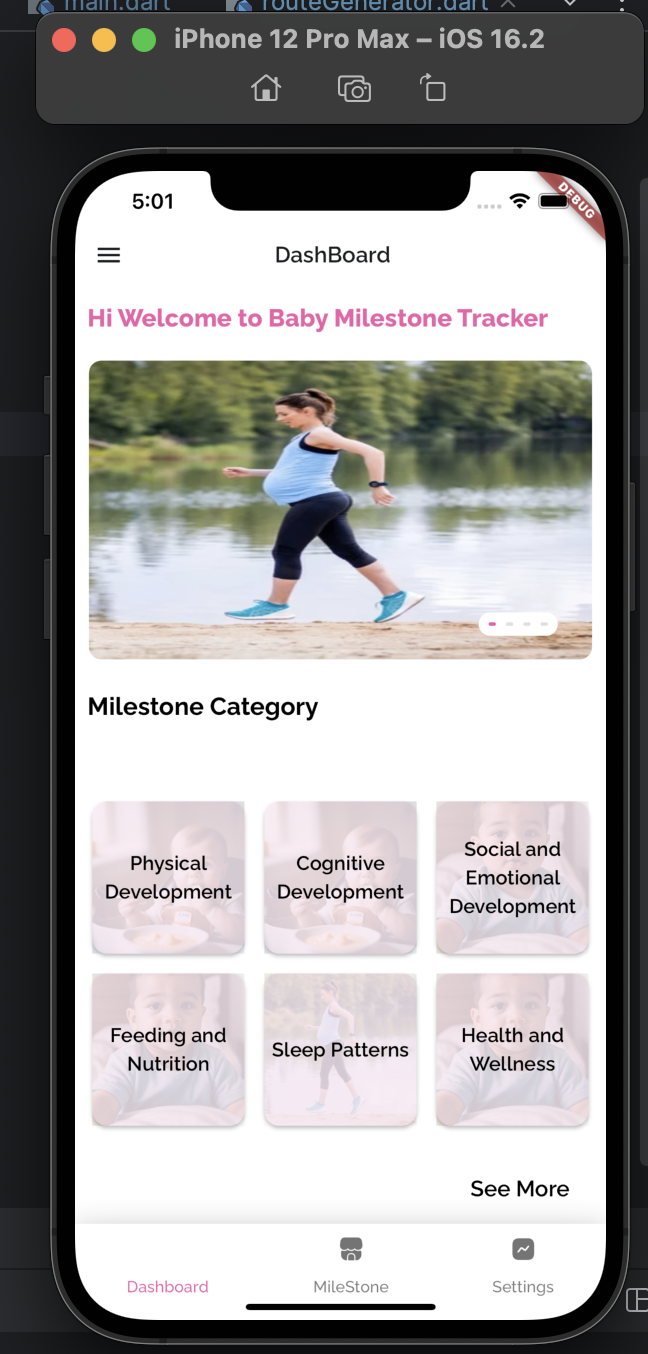
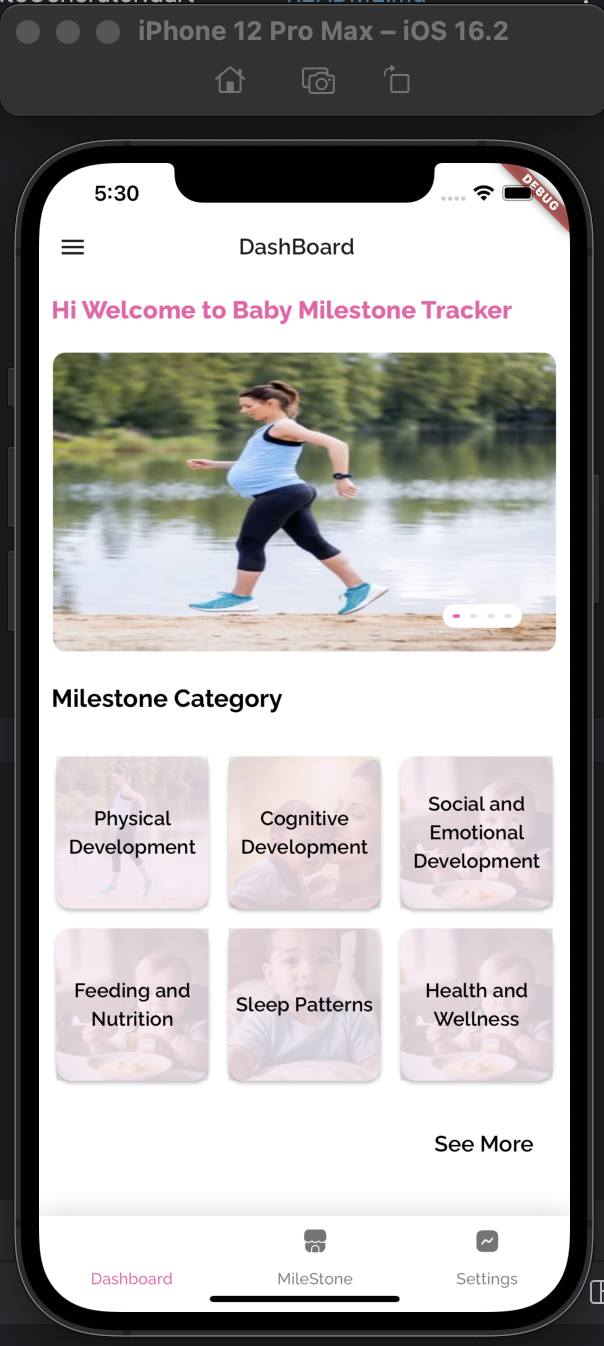
Changed one of the screenshots

diff --git a/lib/view/page/dashboard/dashboard.dart b/lib/view/page/dashboard/dashboard.dart
@@ -123,6 +123,7 @@ class DashboardPage extends StatelessWidget {
                               width: sS(context).cW(width: 410),
                               child: Column(
                                 crossAxisAlignment: CrossAxisAlignment.end,
+                                mainAxisAlignment: MainAxisAlignment.start,
                                 children: [
                                   GridView.builder(
                                     shrinkWrap: true,

diff --git a/README.md b/README.md
@@ -18,16 +18,16 @@ Baby Milestones Tracker is an application designed to help parents keep track of
 
 
 <p align="center">
-  <img src="screenshots/image00001.png" width="200" alt="App Screenshot 1">
-  <img src="screenshots/image00002.png" width="200" alt="App Screenshot 2">
-  <img src="screenshots/image00003.png" width="200" alt="App Screenshot 3">
+  <img src="screenshots/image00004.png" width="200" alt="App Screenshot 1">
+  <img src="screenshots/image00005.png" width="200" alt="App Screenshot 2">
+  <img src="screenshots/image00006.png" width="200" alt="App Screenshot 3">
 </p>
 
 
 <p align="center">
-  <img src="screenshots/image00004.png" width="200" alt="App Screenshot 1">
-  <img src="screenshots/image00005.png" width="200" alt="App Screenshot 2">
-  <img src="screenshots/image00006.png" width="200" alt="App Screenshot 3">
+  <img src="screenshots/image00001.png" width="200" alt="App Screenshot 1">
+  <img src="screenshots/image00002.png" width="200" alt="App Screenshot 2">
+  <img src="screenshots/image00003.png" width="200" alt="App Screenshot 3">
 </p>
 
 ## Key Features
